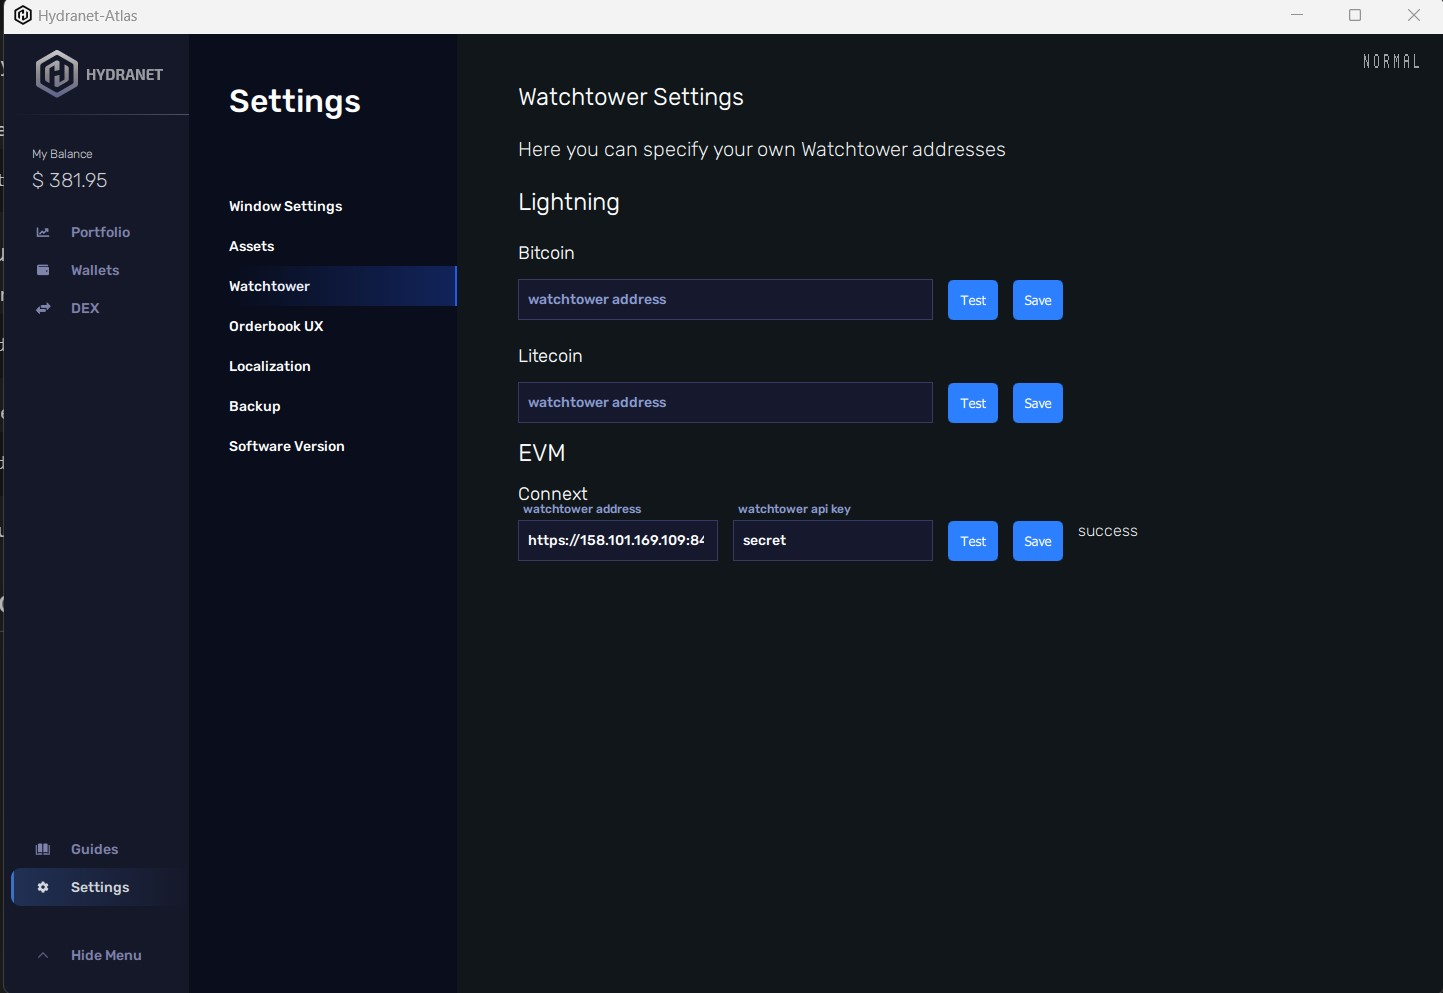
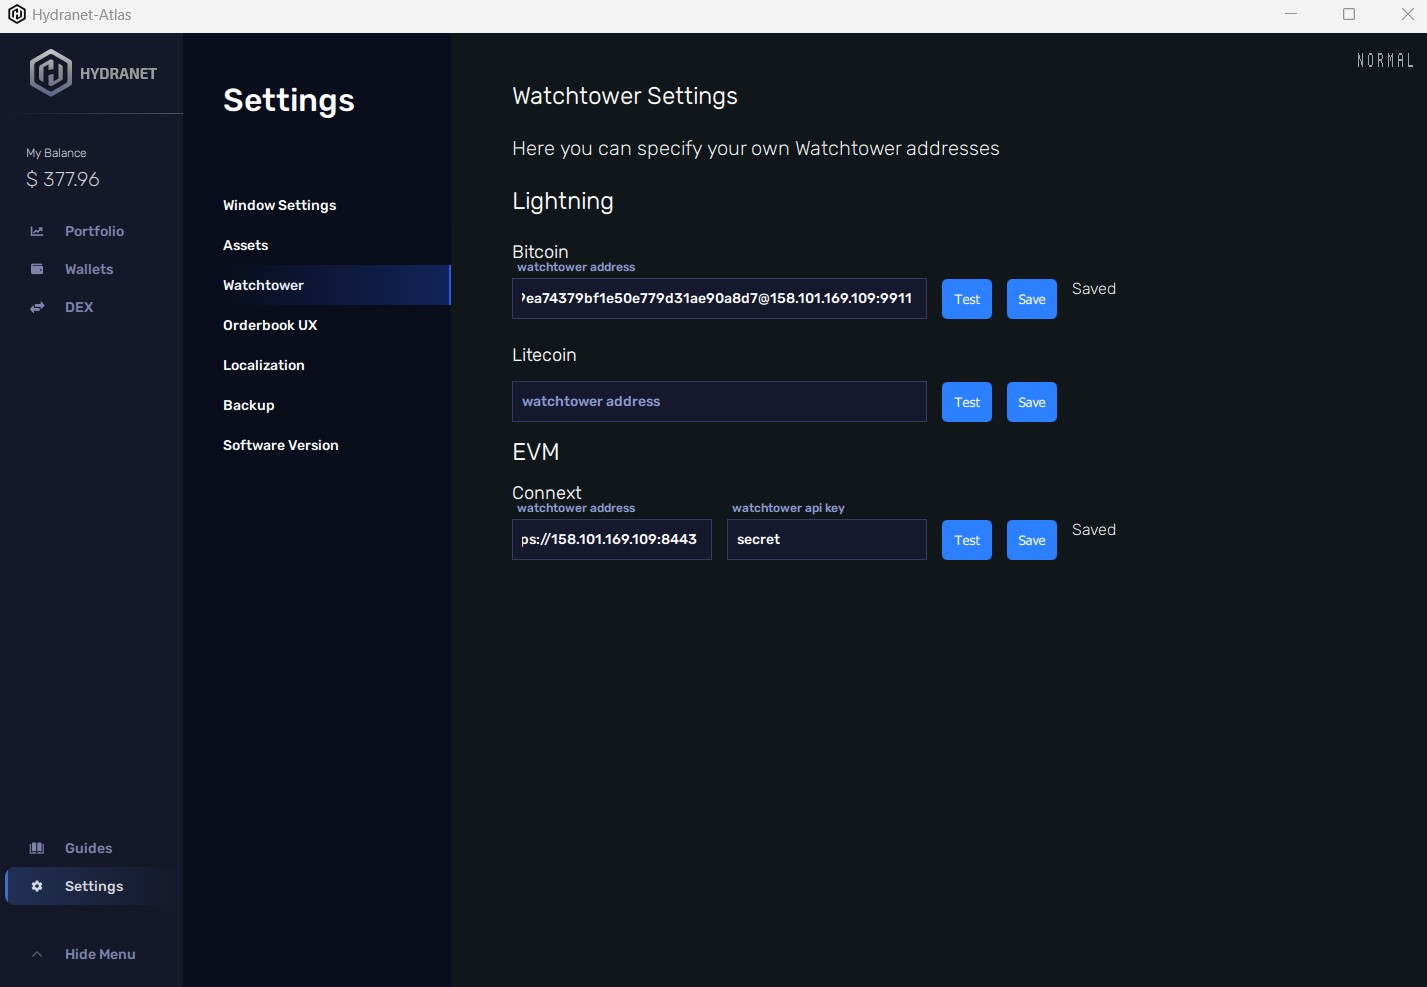
wip

diff --git a/README.md b/README.md
@@ -75,18 +75,42 @@ touch watchtower.db
 ```
 docker-compose -d 
 ```
-### Check the logs 
+### Lightning watchtower will now sync the chain using neutrino, you dont have to run a full bitcoin node.
+### You can see the logs of the LND Watchtower by executing:
 ```
-docker-compose logs -f
+docker-compose logs -f lnd
 ```
-### You should see the watchtower printing its config and the line "watchtower started".
+### Connext Watchtower does not have to sync anything.
+```
+docker-compose logs -f connext
+```
+
 <br>
 
+## Configure the LND watchtower
+### You have to execute a command to create a wallet for the lnd watchtower. The wallet does not need to be topped up, but it needs to be created and unlocked every time the watchtower restarts.
+### Make sure you are always in the "hydranet-watchtowers" folder when executing these commands.
+```
+bash ./setup-lnd.sh
+```
+### Enter a password for the wallet. When asked for a seed phrase, type "n" and press enter.
+
+![alt text](./images/lnd-setup.jpg)
 
 # Configure the Watchtower in the Wallet
 ### Use your Watchtowers public ip and the api key from the config to test and save the watchtower in the wallet.
 
+```
+bash ./get-lnd-info.sh
+your watchtower url is:  029b41067bec69bcf3fe9ed1504d5a26713ea9ea74379bf1e50e779d31ae90a8d7@158.101.169.109:9911
+```
+### This will print the watchtower url for use in the wallet.
+
+
+### In the wallet go to settings -> Watchtower and configure your URLs.
+
 ![alt text](./images/wallet.jpg)
+
 
 ### The Channels tab should show "Protected" after a few minutes.
 
